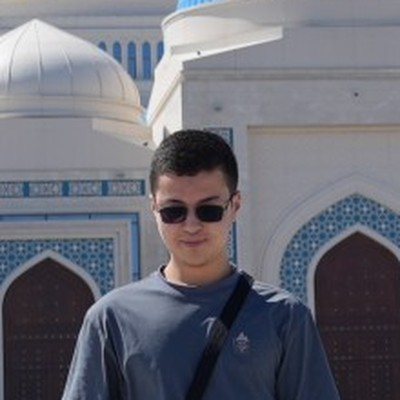
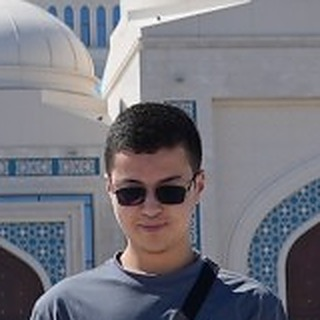
style(about): smaller team cards, sharper crop for Bilolbek

diff --git a/app/about/page.tsx b/app/about/page.tsx
@@ -141,7 +141,7 @@ export default function AboutPage() {
             Engineers, data analysts and communicators working alongside our founder.
           </p>
         </div>
-        <ul className="mx-auto mt-12 grid max-w-4xl gap-5 sm:grid-cols-2 lg:grid-cols-3">
+        <ul className="mx-auto mt-12 grid max-w-3xl gap-4 sm:grid-cols-2 lg:grid-cols-3">
           {team.map((member) => (
             <li
               key={member.name}
